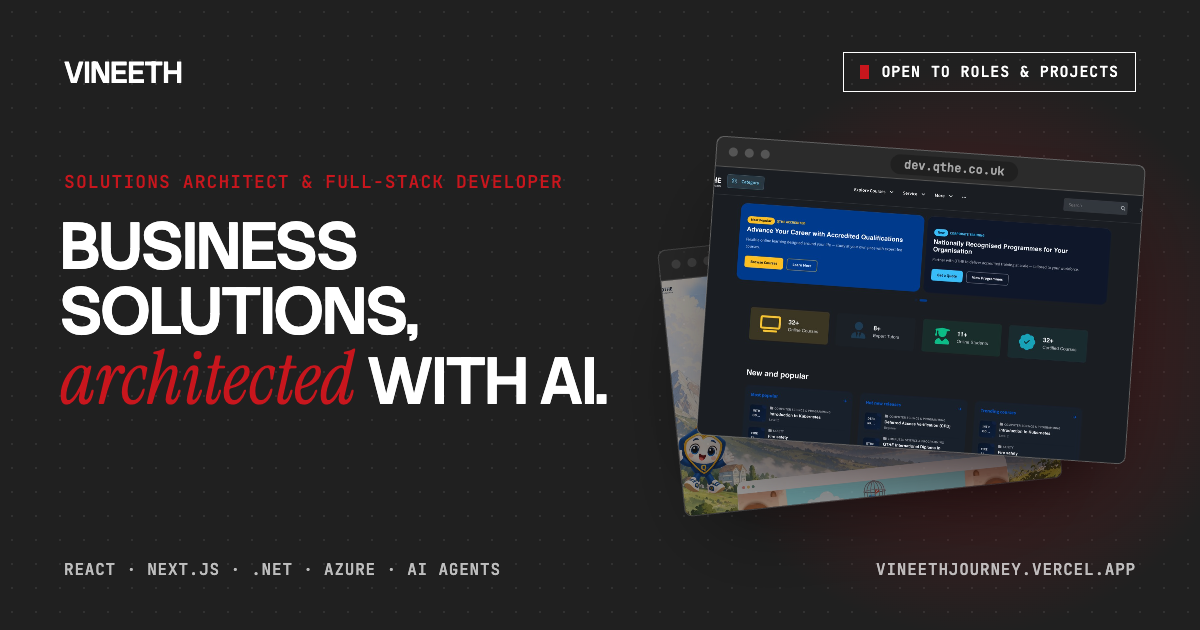
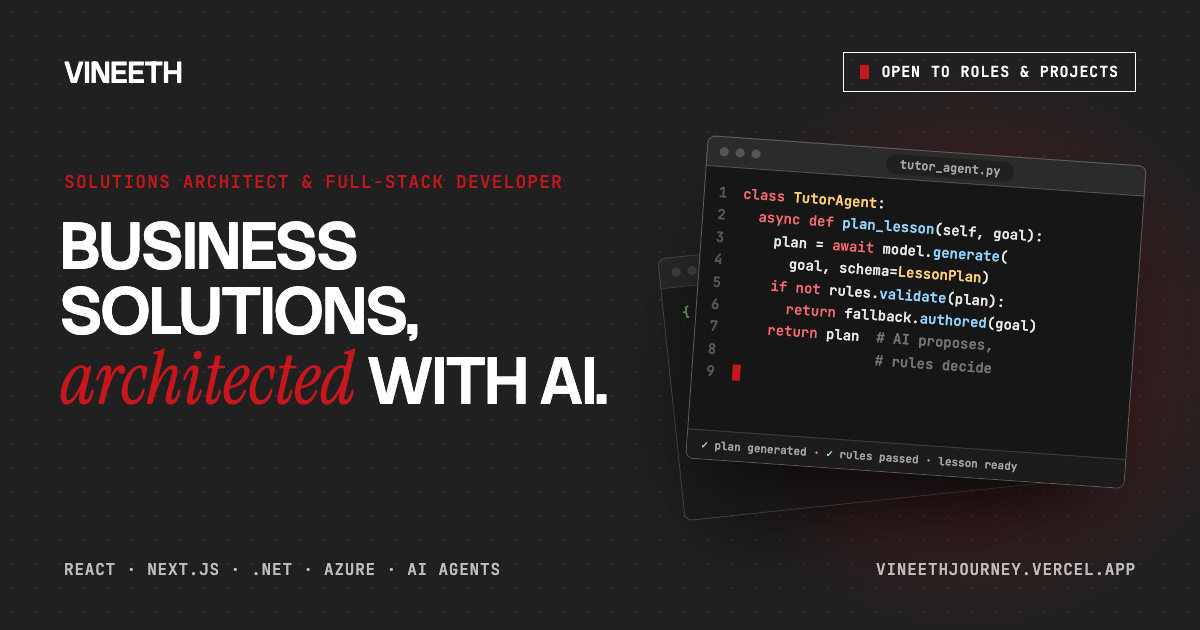
Show tutor-agent code in the link preview image

Changed region(s): [[0.5242, 0.2111, 0.925, 0.8143], [0.8633, 0.3016, 0.9558, 0.3619], [0.74, 0.2413, 0.8325, 0.3016]]

diff --git a/og/og-card.html b/og/og-card.html
@@ -30,7 +30,7 @@
     text-transform: none; color: #c8161d; font-size: 1.12em; letter-spacing: 0; }
   .foot { position: absolute; left: 64px; right: 64px; bottom: 50px; display: flex; justify-content: space-between;
     font: 500 16px "JetBrains Mono", monospace; letter-spacing: 0.05em; text-transform: uppercase; color: rgba(255,255,255,0.7); }
-  .frame { position: absolute; right: 64px; top: 150px; width: 430px; border-radius: 8px; overflow: hidden;
+  .frame { position: absolute; right: 64px; top: 150px; width: 440px; border-radius: 8px; overflow: hidden;
     background: #2b2b2b; border: 1px solid rgba(255,255,255,0.25); transform: rotate(4deg);
     box-shadow: 0 40px 80px -30px rgba(0,0,0,0.8); }
   .bar { height: 30px; display: flex; align-items: center; gap: 7px; padding: 0 12px; border-bottom: 1px solid rgba(255,255,255,0.2); }
@@ -38,7 +38,18 @@
   .bar span { margin-left: auto; margin-right: auto; padding: 2px 14px; border-radius: 99px; background: #202020;
     font: 12px "JetBrains Mono", monospace; color: rgba(255,255,255,0.6); }
   .frame img { display: block; width: 100%; aspect-ratio: 16/10; object-fit: cover; object-position: top; }
-  .frame.back { right: 150px; top: 230px; transform: rotate(-6deg); opacity: 0.55; width: 380px; }
+  .frame.back { right: 150px; top: 238px; transform: rotate(-6deg); opacity: 0.6; width: 380px; }
+  .code { height: 232px; padding: 16px 18px; background: #161616; color: #9be29b;
+    font: 13px/1.55 "JetBrains Mono", monospace; white-space: pre; }
+  .code b { color: #f2f2f2; font-weight: 500; }
+  .editor { display: flex; height: 292px; background: #161616; font: 14px/1.6 "JetBrains Mono", monospace; }
+  .gutter { padding: 14px 10px 0 14px; color: rgba(255,255,255,0.28); text-align: right; white-space: pre; }
+  .src { padding: 14px 16px 0 6px; color: #e8e8e8; white-space: pre; }
+  .k { color: #ff6b70; } .f { color: #8fd3ff; } .s { color: #9be29b; } .c { color: rgba(255,255,255,0.4); } .t { color: #ffcf70; }
+  .caret { display: inline-block; width: 8px; height: 16px; margin-left: 2px; vertical-align: -3px; background: #c8161d; }
+  .run { position: absolute; left: 0; right: 0; bottom: 0; padding: 7px 14px; border-top: 1px solid rgba(255,255,255,0.15);
+    background: #1c1c1c; font: 11px "JetBrains Mono", monospace; color: rgba(255,255,255,0.6); }
+  .run span { color: #9be29b; }
 </style>
 </head>
 <body>
@@ -49,8 +60,37 @@
   </div>
   <p class="role">Solutions Architect &amp; Full-Stack Developer</p>
   <h1>Business solutions, <em>architected</em> with AI.</h1>
-  <div class="frame back"><div class="bar"><i></i><i></i><i></i><span>dev.qthemindmath.com</span></div><img src="../public/work/portfolio_20.jpg" /></div>
-  <div class="frame"><div class="bar"><i></i><i></i><i></i><span>dev.qthe.co.uk</span></div><img src="../public/work/portfolio_21.jpg" /></div>
+  <div class="frame back"><div class="bar"><i></i><i></i><i></i><span>lesson-plan.json</span></div><div class="code">{
+  <b>"intent"</b>: "place-value",
+  <b>"steps"</b>: [
+    { "scene": "abacus" },
+    { "scene": "quiz" }
+  ],
+  <b>"validated"</b>: true
+}</div></div>
+  <div class="frame"><div class="bar"><i></i><i></i><i></i><span>tutor_agent.py</span></div>
+    <div class="editor">
+      <div class="gutter">1
+2
+3
+4
+5
+6
+7
+8
+9</div>
+      <div class="src"><span class="k">class</span> <span class="t">TutorAgent</span>:
+  <span class="k">async def</span> <span class="f">plan_lesson</span>(self, goal):
+    plan = <span class="k">await</span> model.<span class="f">generate</span>(
+      goal, schema=<span class="t">LessonPlan</span>)
+    <span class="k">if not</span> rules.<span class="f">validate</span>(plan):
+      <span class="k">return</span> fallback.<span class="f">authored</span>(goal)
+    <span class="k">return</span> plan  <span class="c"># AI proposes,</span>
+                 <span class="c"># rules decide</span>
+<span class="caret"></span></div>
+    </div>
+    <div class="run"><span>✓</span> plan generated · <span>✓</span> rules passed · lesson ready</div>
+  </div>
   <div class="foot"><span>React · Next.js · .NET · Azure · AI agents</span><span>vineethjourney.vercel.app</span></div>
 </body>
 </html>

diff --git a/index.html b/index.html
@@ -21,7 +21,7 @@
     <meta property="og:url" content="https://vineethjourney.vercel.app/" />
     <meta property="og:title" content="Vineeth Pradeep | Solutions Architect &amp; Full-Stack Developer" />
     <meta property="og:description" content="Business solutions, architected with AI: frontend, backend and AI agents with React, Next.js, .NET and Azure." />
-    <meta property="og:image" content="https://vineethjourney.vercel.app/og-image.png" />
+    <meta property="og:image" content="https://vineethjourney.vercel.app/og-image.png?v=2" />
     <meta property="og:image:width" content="1200" />
     <meta property="og:image:height" content="630" />
     <meta property="og:image:alt" content="Vineeth Pradeep, Solutions Architect and Full-Stack Developer: business solutions, architected with AI." />
@@ -29,7 +29,7 @@
     <meta name="twitter:card" content="summary_large_image" />
     <meta name="twitter:title" content="Vineeth Pradeep | Solutions Architect &amp; Full-Stack Developer" />
     <meta name="twitter:description" content="Business solutions, architected with AI: frontend, backend and AI agents with React, Next.js, .NET and Azure." />
-    <meta name="twitter:image" content="https://vineethjourney.vercel.app/og-image.png" />
+    <meta name="twitter:image" content="https://vineethjourney.vercel.app/og-image.png?v=2" />
     <meta name="twitter:image:alt" content="Vineeth Pradeep, Solutions Architect and Full-Stack Developer: business solutions, architected with AI." />
   </head>
   <body>

diff --git a/VINEETH.md b/VINEETH.md
@@ -17,8 +17,9 @@ Content lives in `src/site/content.js`; tokens live in `src/site/site.css`.
   training custom models unless the CV is updated to say so.
 - **Enquiry email:** sent through the Zoho account in `MAIL_*` and delivered to `MAIL_TO`
   (vineethpradeeps@gmail.com); replies go to the enquirer.
-- **Link previews:** `public/og-image.png` (1200x630) is rendered from `og/og-card.html` with
-  `node og/render.mjs`. Re-render it when the role or headline changes.
+- **Link previews:** `public/og-image.png` (1200x630, a tutor-agent code window) is rendered from `og/og-card.html` with
+  `node og/render.mjs`. Re-render it when the role or headline changes, and bump the `?v=` number on
+  the `og:image` and `twitter:image` URLs in `index.html` so social sites fetch the new image.
 - **Primary action:** "Hire me" opens the hire form. It adapts to the engagement type: full-time or
   contract roles ask for job title, salary or day rate, work arrangement and a job description link;
   freelance projects and consultations ask what is needed and the budget.
